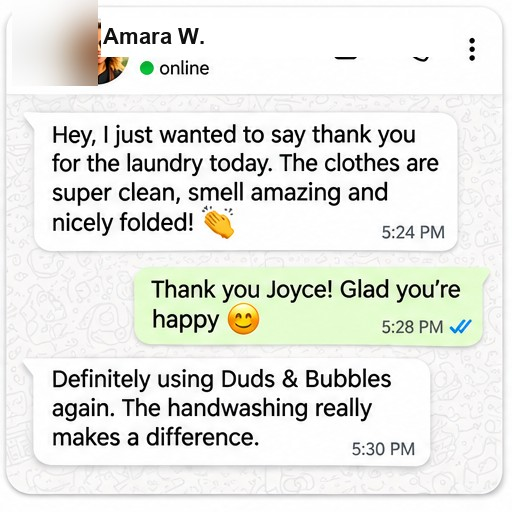
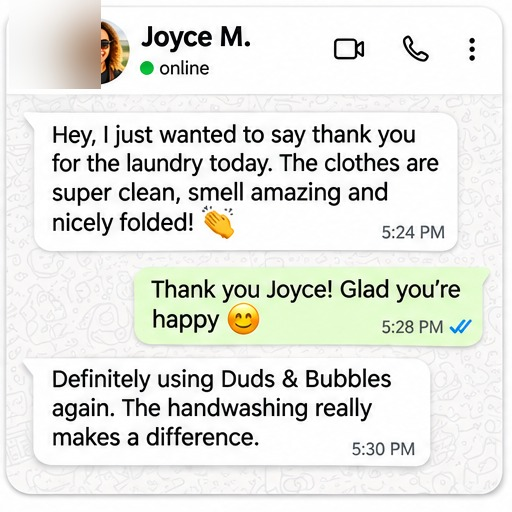
Add WhatsApp review screenshot strip with blurred profiles

Changed region(s): [[0.0938, 0.0, 0.5, 0.1875], [0.7812, 0.0625, 0.8438, 0.125], [0.6562, 0.0625, 0.7188, 0.125]]

diff --git a/index.html b/index.html
@@ -106,28 +106,13 @@ h2{font-family:'Rozha One',serif;font-weight:400;font-size:clamp(2rem,4.6vw,3rem
 @media(max-width:700px){.duo{grid-template-columns:1fr}.frame{border-radius:20px}}
 /* reviews */
 #reviews[hidden]{display:none}
-.rgrid{columns:3 280px;column-gap:18px}
-/* WhatsApp-style review cards */
-.rv{break-inside:avoid;background:#fff;border-radius:var(--r);padding:0;margin-bottom:18px;box-shadow:var(--shadow);overflow:hidden}
-.rv-head{display:flex;align-items:center;gap:12px;padding:14px 18px;background:#f0f4f7;border-bottom:1px solid rgba(0,0,0,.06)}
-.rv-avatar{width:42px;height:42px;border-radius:50%;background:var(--mist);display:flex;align-items:center;justify-content:center;flex:none;overflow:hidden;filter:blur(6px)}
-.rv-avatar svg{width:26px;height:26px;fill:var(--sky)}
-.rv-name{font-weight:700;font-size:.9rem;line-height:1.2}
-.rv-sub{font-size:.72rem;color:#666;margin-top:1px}
-.rv-body{padding:16px 18px 14px}
-.rv-bubble{background:#f1f3f4;border-radius:0 14px 14px 14px;padding:12px 14px;font-size:.9rem;line-height:1.55;margin-bottom:10px;position:relative}
-.rv-bubble:before{content:'';position:absolute;left:-7px;top:0;border:7px solid transparent;border-top-color:#f1f3f4;border-left:0}
-.rv footer{all:unset;display:flex;flex-wrap:wrap;gap:4px 10px;align-items:center;padding:0 18px 14px;font-size:.84rem}
-.rv footer b{font-weight:600}
-.rv .loc{background:var(--foam);border-radius:999px;padding:3px 12px;font-size:.74rem;color:var(--deep)}
-.rv .stars{color:#c88a14;letter-spacing:2px;font-size:.85rem;padding:4px 18px 0}
-.areas{display:flex;flex-wrap:wrap;gap:8px;justify-content:center;max-width:820px;margin:0 auto 40px}
-.areas span{background:#fff;border-radius:999px;padding:7px 16px;font-size:.8rem;box-shadow:0 4px 14px rgba(60,100,120,.1)}
-/* screenshot gallery */
-.scr-grid{display:grid;grid-template-columns:repeat(3,1fr);gap:16px;max-width:1080px;margin:0 auto}
-.scr-grid img{width:100%;height:auto;border-radius:16px;box-shadow:var(--shadow);display:block}
-@media(max-width:700px){.scr-grid{grid-template-columns:1fr 1fr}}
-@media(max-width:420px){.scr-grid{grid-template-columns:1fr}}
+.scr-track{display:flex;gap:16px;overflow-x:auto;scroll-snap-type:x mandatory;-webkit-overflow-scrolling:touch;padding:8px 4px 20px;cursor:grab}
+.scr-track:active{cursor:grabbing}
+.scr-track::-webkit-scrollbar{height:5px}
+.scr-track::-webkit-scrollbar-track{background:var(--mist);border-radius:99px}
+.scr-track::-webkit-scrollbar-thumb{background:var(--sky);border-radius:99px}
+.scr-track img{flex:0 0 320px;width:320px;height:320px;object-fit:cover;object-position:top;border-radius:18px;box-shadow:var(--shadow);scroll-snap-align:start}
+@media(max-width:600px){.scr-track img{flex:0 0 76vw;width:76vw;height:76vw}}
 /* basket guide */
 .bk{display:grid;grid-template-columns:1fr 1fr;gap:20px;max-width:760px;margin:44px auto 0}
 .bk figure{background:#fff;border-radius:var(--r);overflow:hidden;box-shadow:var(--shadow);text-align:center}
@@ -355,24 +340,20 @@ footer img{width:54px;border-radius:50%;margin:0 auto 10px}
   </div>
 </section>
 
-<section id="reviews" hidden>
+<section id="reviews">
   <div class="wrap">
     <p class="eyebrow caps reveal">Kind words</p>
-    <h2 class="reveal">Loved along Thika Road</h2>
-    <p class="sub reveal">Real messages from customers we've washed for.</p>
-    <div class="areas reveal" id="areas" aria-label="Areas we've served"></div>
-    <div class="rgrid" id="rgrid"></div>
-    <p class="eyebrow caps reveal" style="margin-top:52px">From our WhatsApp</p>
-    <h2 class="reveal" style="font-size:clamp(1.4rem,3vw,2rem);margin-bottom:28px">Screenshots of real chats</h2>
-    <div class="scr-grid reveal">
-      <img src="assets/review-1.jpg" alt="WhatsApp review from Amara W." loading="lazy" width="512" height="512">
-      <img src="assets/review-2.jpg" alt="WhatsApp review from Kevin O." loading="lazy" width="512" height="512">
-      <img src="assets/review-3.jpg" alt="WhatsApp review from Fatuma N." loading="lazy" width="512" height="512">
-      <img src="assets/review-4.jpg" alt="WhatsApp review from Daniel M." loading="lazy" width="512" height="512">
-      <img src="assets/review-5.jpg" alt="WhatsApp review from Zara A." loading="lazy" width="512" height="512">
-      <img src="assets/review-6.jpg" alt="WhatsApp review from Samuel K." loading="lazy" width="512" height="512">
+    <h2 class="reveal">What customers are saying</h2>
+    <p class="sub reveal">Real WhatsApp messages from people we've washed for along Thika Road.</p>
+    <div class="scr-track reveal" id="scrTrack">
+      <img src="assets/review-1.jpg" alt="WhatsApp review from Joyce M." loading="lazy" width="512" height="512">
+      <img src="assets/review-2.jpg" alt="WhatsApp review from Brian K." loading="lazy" width="512" height="512">
+      <img src="assets/review-3.jpg" alt="WhatsApp review from Wanjiku N." loading="lazy" width="512" height="512">
+      <img src="assets/review-4.jpg" alt="WhatsApp review from David O." loading="lazy" width="512" height="512">
+      <img src="assets/review-5.jpg" alt="WhatsApp review from Aisha L." loading="lazy" width="512" height="512">
+      <img src="assets/review-6.jpg" alt="WhatsApp review from Peter M." loading="lazy" width="512" height="512">
     </div>
-    <div class="mid reveal" style="margin-top:38px"><a class="btn caps" href="#book">Book my wash</a></div>
+    <div class="mid reveal"><a class="btn caps" href="#book">Book my wash</a></div>
   </div>
 </section>
 
@@ -471,20 +452,17 @@ $('#send').addEventListener('click',function(){var area=$('#area').value.trim();
  m.push('','Estimated total: '+KS(tot));
  window.open('https://wa.me/'+NUM+'?text='+encodeURIComponent(m.join('\n')),'_blank','noopener')});
 $('#y').textContent=new Date().getFullYear();
-// testimonials (edit reviews.js)
-(function(){var R=(window.REVIEWS||[]).filter(function(x){return x&&x.text&&x.name});if(!R.length)return;
- function esc(t){return String(t).replace(/[&<>"]/g,function(c){return {'&':'&amp;','<':'&lt;','>':'&gt;','"':'&quot;'}[c]})}
- var personIcon='<svg viewBox="0 0 24 24" aria-hidden="true"><circle cx="12" cy="8" r="4"/><path d="M4 20c0-4 3.6-7 8-7s8 3 8 7"/></svg>';
- $('#rgrid').innerHTML=R.map(function(x){
-  var st=x.stars?'<div class="stars" role="img" aria-label="'+x.stars+' out of 5">'+'\u2605'.repeat(Math.min(5,x.stars))+'</div>':'';
-  var head='<div class="rv-head"><div class="rv-avatar">'+personIcon+'</div><div><div class="rv-name">'+esc(x.name)+'</div><div class="rv-sub">via WhatsApp</div></div></div>';
-  var body='<div class="rv-body"><div class="rv-bubble">'+esc(x.text)+'</div></div>';
-  var foot='<footer><b>'+esc(x.name)+'</b>'+(x.area?'<span class="loc">'+esc(x.area)+'</span>':'')+'</footer>';
-  return '<figure class="rv reveal">'+head+st+body+foot+'</figure>'}).join('');
- var seen={},A=[];R.forEach(function(x){if(x.area){var k=x.area.toLowerCase();if(!seen[k]){seen[k]=1;A.push(x.area)}}});
- $('#areas').innerHTML=A.map(function(a){return '<span>'+esc(a)+'</span>'}).join('');if(!A.length)$('#areas').remove();
- $('#reviews').hidden=false;
- var li=document.createElement('li');li.innerHTML='<a href="#reviews">Reviews</a>';var ul=document.querySelector('nav ul');ul.insertBefore(li,ul.children[2]);
+// reviews nav link
+(function(){
+ var li=document.createElement('li');li.innerHTML='<a href="#reviews">Reviews</a>';
+ var ul=document.querySelector('nav ul');ul.insertBefore(li,ul.children[2]);
+ // drag-to-scroll on screenshot strip
+ var track=document.getElementById('scrTrack');
+ if(!track)return;
+ var down=false,sx=0,sl=0;
+ track.addEventListener('mousedown',function(e){down=true;sx=e.pageX;sl=track.scrollLeft;track.style.userSelect='none'});
+ window.addEventListener('mouseup',function(){down=false;track.style.userSelect=''});
+ window.addEventListener('mousemove',function(e){if(!down)return;track.scrollLeft=sl-(e.pageX-sx)});
 })();
 // sticky bar after hero
 var bar=$('#bar'),hero=$('#top');

diff --git a/reviews.js b/reviews.js
@@ -1,50 +1,7 @@
 /* ============================================================
-   CUSTOMER REVIEWS  -  paste real ones here. No code changes needed.
-   The "Loved across Nairobi" section appears automatically once
-   this list has at least one review, and the area chips are built
-   from the "area" of each review.
-
-   Fields:  name  (required)   e.g. "Wanjiru"  (first name is fine)
-            text  (required)   the customer's own words
-            area  (optional)   estate / area, e.g. "Roysambu"
-            stars (optional)   1-5, only if they actually gave a rating
-   Only add reviews customers have agreed to share.
+   CUSTOMER REVIEWS
+   The styled card section has been replaced with the WhatsApp
+   screenshot strip. Leave this file as-is unless you want to
+   re-enable the text card section in the future.
    ============================================================ */
-window.REVIEWS = [
-  {
-    name: "Amara W.",
-    area: "Thika Road",
-    stars: 5,
-    text: "Hey, I just wanted to say thank you for the laundry today. The clothes are super clean, smell amazing and nicely folded! 👏 Definitely using Duds & Bubbles again. The handwashing really makes a difference."
-  },
-  {
-    name: "Kevin O.",
-    area: "Kasarani",
-    stars: 5,
-    text: "The team was punctual, professional and very thorough. My shirts and trousers look brand new. This handwash service is exactly what I needed. Keep it up! 👌"
-  },
-  {
-    name: "Fatuma N.",
-    area: "Roysambu",
-    stars: 5,
-    text: "Hi Duds & Bubbles, just received my laundry. Everything is spotless and the fragrance is so fresh! My duvets are also perfectly clean. 😍"
-  },
-  {
-    name: "Daniel M.",
-    area: "Zimmerman",
-    stars: 5,
-    text: "The laundry was done so well. I like that you wash at home and handle the clothes with care. Very convenient and reliable. 👍"
-  },
-  {
-    name: "Zara A.",
-    area: "Garden City",
-    stars: 5,
-    text: "I've tried a few laundry services before, but Duds & Bubbles is by far the best. My whites are actually white again! 😄 Booking was also easy and the team was friendly."
-  },
-  {
-    name: "Samuel K.",
-    area: "Ruaka",
-    stars: 5,
-    text: "Thanks for the amazing service! The clothes were clean, well-dried and neatly folded. Will definitely recommend Duds & Bubbles to my neighbours here in Ruaka."
-  }
-];
+window.REVIEWS = [];
